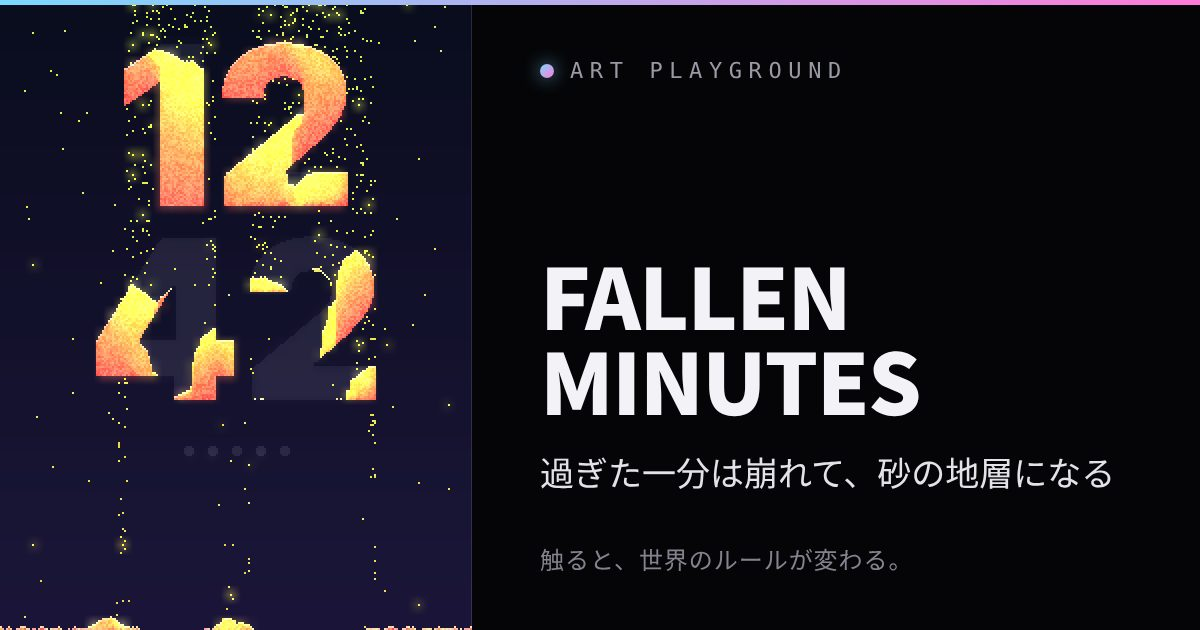
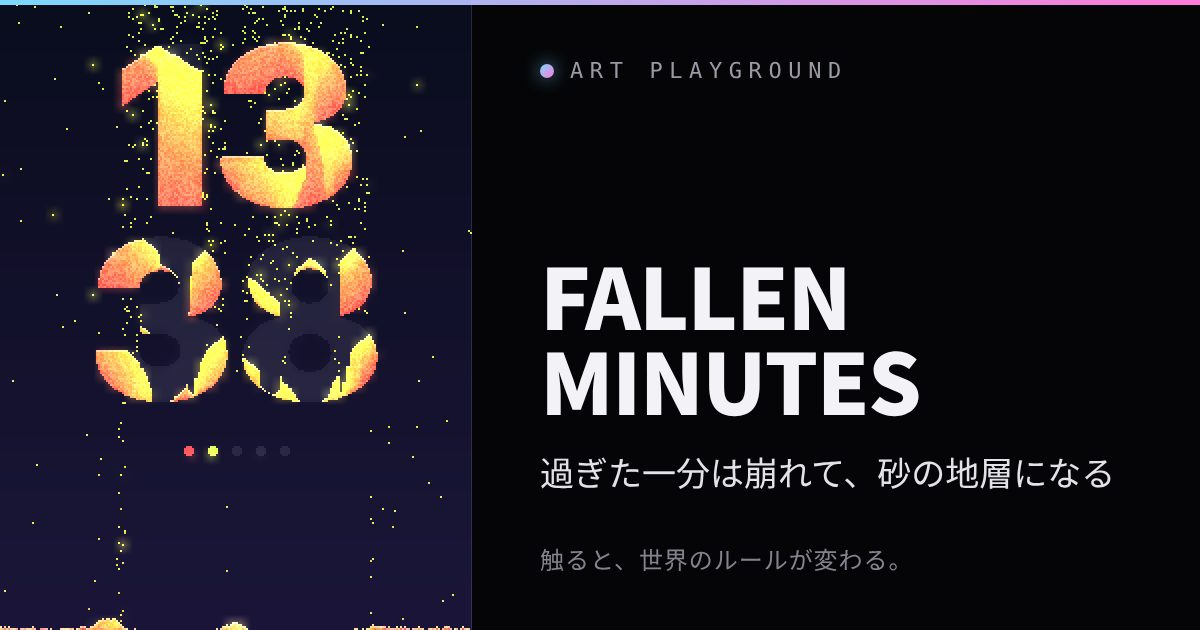
FALLEN MINUTES: 流れ星が触れた数字を崩す＋4〜8秒おきの小さな出来事
Claude-Session: https://claude.ai/code/session_019C65K5XvVWM4NrfMEdEmb3

diff --git a/CHANGELOG.md b/CHANGELOG.md
@@ -1,3 +1,4 @@
+- 2026-11-10 クロちゃん: FALLEN MINUTES(CURRENT)を改修(おっちゃん依頼。art-v123-fallen-minutes.html。`ap-kit.js`は変更なし)。①毎分50秒の流れ星の通り道が時刻の数字に触れた所だけ、分が変わるときと同じ崩れ方で砂になって砂丘に積もる(傷の幅は約7マス)。触れた所は数字の型からも外すので、分が変わるまで積もり直さず、残りの数字は形を保つ。分が変わると型を作り直すので、次の数字はいつも通り積もる(変わらなかった数字の傷もそのとき埋まる)。②眺めている間、4〜8秒おきに小さな出来事を1つだけ起こす: 小さな星の瞬き(空に1マス)/細い流星(短く、砂のうしろを通り数字は崩さない)/数字の縁から砂が3〜6粒こぼれる(こぼれた所はまた積もる)/砂丘の表面のきらめき(近くで3〜5粒)。50秒の流れ星が飛んでいる間は起こさない。音・常駐の文字は足していない。作品ファイルが変わったのでポスター(ヒーロー含む)とOGPを作り直し、`--check`は両方終了コード0。試作版`prototypes/fallen-minutes.html`は元のまま。確認: `node --check`OK、スマホ幅(390×844・3倍、縦と横)のヘッドレスChromiumで時刻を13:58:20から始め、50秒の流れ星で数字に斜めの傷が入る→分が変わるまで傷が残る→13:59で傷が埋まり新しい数字が積もる、をスクリーンショットで確認、エラー無し。描画回数は改修前と同じ(GPUなしの環境で同時に動かして 37.4→37.3fps)。**未確認**: iPhone実機での60fps、傷の太さと小さな出来事の頻度・大きさの見え方(art-v123-fallen-minutes.html, posters/, og/, CHANGELOG.md)
 - 2026-11-10 ムーちゃん: TRICK ROOM入口をベストな位置へ移動(オーナー指示「ベストな位置でね!」)。作品グリッド直後から、CURRENT(ヒーロー)直後・LOGの前へ。全員が最初に通る場所に置いた。
 - 2026-11-10 ムーちゃん: トップページに TRICK ROOM(prototypes/tricks.html)への入口セクションを追加(オーナー指示「せっかくだからトップのどこかに入れ込んで」)。場所は作品グリッド直後・FOLLOW節の前で、既存セクションと同じ体裁+グラデーションのピル型リンク。
 - 2026-11-10 ムーちゃん: トップページのシェア用カード画像(OGP)を最新作3作(DEEP HOURS／28 SHELLS／FALLEN MINUTES)のコラージュに刷新。brand/og-image-2026b.jpg を追加し、index.html の og:image／twitter:image を差し替え(旧 brand/og-image.jpg は据え置き)。当初4作版(CAMPFIRE入り)で作ったがオーナー指示で3作版に作り直し、シェア側キャッシュ対策でファイル名を 2026b に変更。本番取得でバイト一致まで確認済み。
